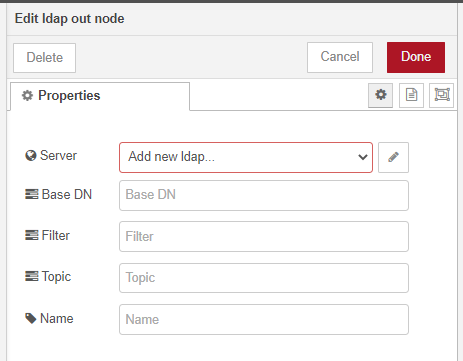
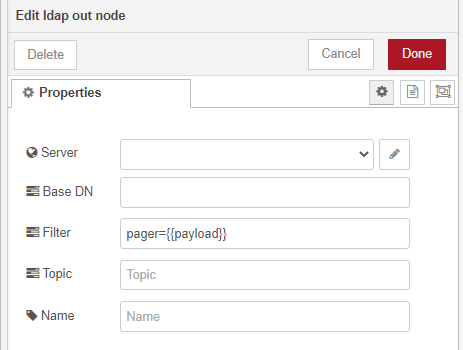
Alterado imagem 02 e criado referencias

diff --git a/README.md b/README.md
@@ -56,6 +56,12 @@ Para adicionar à navegação do Telegram seria este:
 <img src="https://github.com/dedynobre/autenticando-acesso-bot-telegram-com-active-directory/blob/main/imagens/acesso-05.png"/>
 
 
+As configurações do LDAP é o nome/ip do servidor de domínio com sua respectivamente e a autenticação:
+<img src="https://github.com/dedynobre/autenticando-acesso-bot-telegram-com-active-directory/blob/main/imagens/acesso-03.png"/>
+
+Na configuração de busca temos o **Base DN** que temos que colocar o caminho da nossa **OU** e em filter temos o que deveremos buscar. Para a busca podemos colocar xxxxx = {{msg.payload}}, onde xxxxx = atributo usado para filtro e no nosso o filtro vai vim no payload mas pode ser qual parte da mensagem:
+<img src="https://github.com/dedynobre/autenticando-acesso-bot-telegram-com-active-directory/blob/main/imagens/acesso-02.png"/>
+
 ## Conclusão
 
 
